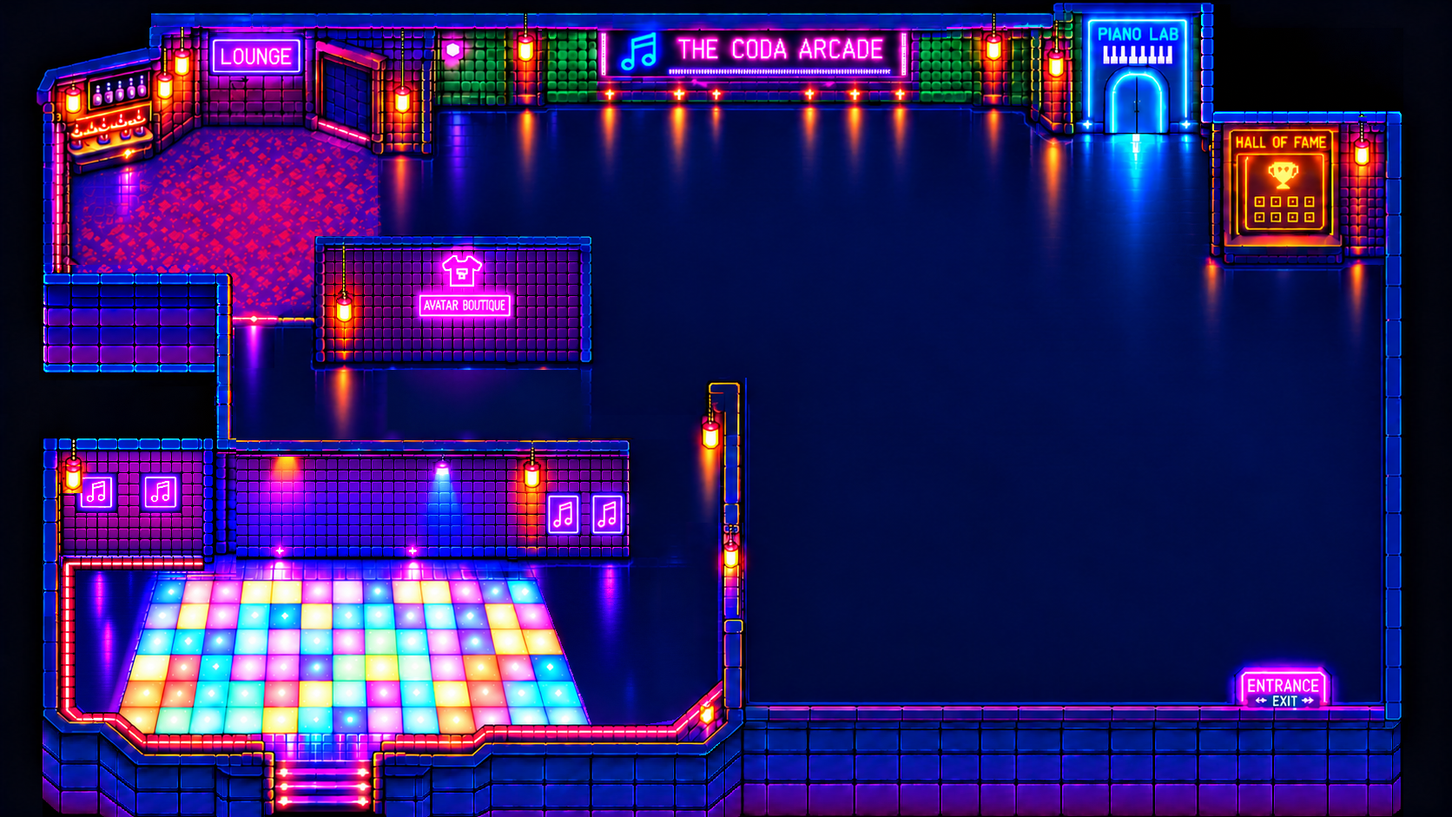
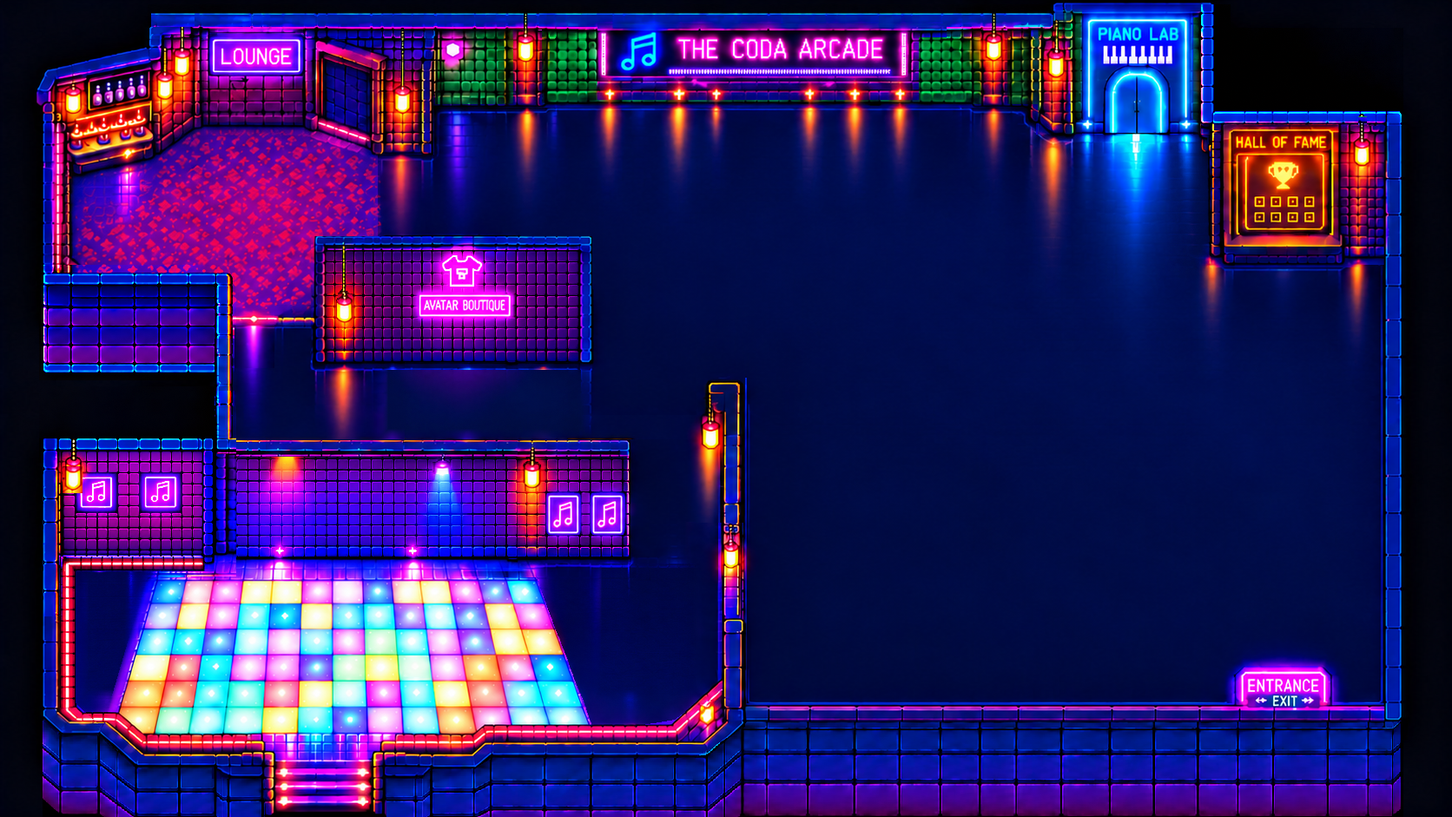
Remove remaining phantom dance-room floor reflections

Changed region(s): [[0.4043, 0.678, 0.4354, 0.8629], [0.0622, 0.678, 0.0933, 0.8629]]

diff --git a/world-preview.html b/world-preview.html
@@ -28,7 +28,7 @@
 #assetStudio{position:fixed;left:12px;top:80px;z-index:65;width:min(334px,calc(100vw - 24px));max-height:calc(100dvh - 99px);overflow:auto;background:#171529f5;border:1px solid #eac17d;box-shadow:0 12px 50px #05010de0,0 0 22px #fdac4a24;border-radius:12px;padding:13px;color:#f8efff;font:12px system-ui;backdrop-filter:blur(9px)}
 #assetStudio[hidden]{display:none}#assetStudio .studioHead{display:flex;align-items:center;justify-content:space-between;color:#ffe4a4;font-size:14px;gap:9px;margin-bottom:7px}#assetStudio .studioActions{display:flex;flex-wrap:wrap;gap:5px;margin:7px 0}#assetStudio button{font:inherit;min-height:28px;padding:5px 7px}#assetStudio .studioActions button{flex:1 0 90px}#assetStudio button:disabled{opacity:.36;cursor:not-allowed}#assetStudio hr{border:0;border-top:1px solid #655374;margin:13px 0}#assetStudio .studioField{display:grid;gap:3px;margin:7px 0}#assetStudio .studioField>label{font-weight:650;color:#dccdf3}#assetStudio input:not([type=checkbox]),#assetStudio select{background:#131024;border:1px solid #866e9b;color:#fff;padding:7px;border-radius:5px;width:100%;font:inherit;min-width:0}#assetStudio input[type=checkbox]{accent-color:#f9c880}#assetStudio .studioGrid{display:grid;grid-template-columns:1fr 1fr;gap:8px}#assetStudio .studioTip{color:#c9b9d6;line-height:1.45;font-size:11px;margin:6px 0}#assetStudio #assetList{height:108px;padding:2px}#assetStudio #assetList option{padding:6px}#assetStudio #assetMessage{color:#bbf5e5;min-height:18px;overflow-wrap:anywhere}#assetStudio #assetSelection[hidden]{display:none}#assetStudio .studioCheck{display:inline-flex;align-items:center;gap:6px;margin:5px 11px 5px 0}#assetStudio .studioCollapsible{border:1px solid #655374;border-radius:7px;padding:8px}#assetStudio summary{cursor:pointer;color:#ffe4b1;font-weight:650}#assetToggle{border-color:#eecc7c}#view.asset-editing{cursor:crosshair;touch-action:none}#assetStudio #assetAdd{background:#675022;border-color:#e8b85c}#assetStudio #assetImport{border-color:#80d3ed}#assetStudio #assetExport{border-color:#80d3ed}#assetStudio #assetHelp{background:#271d3c}#assetStudio .studioHot{color:#ffcfa4}body.asset-console-open #layerEditor{display:none!important}@media(max-width:650px){#assetStudio{top:120px;max-height:calc(100dvh - 138px)}}
 /* DJ unlocks */ #panel .jukebox-track-locked{background:#79788612;border-radius:8px;padding:8px}#panel .jukebox-track-locked strong,#panel .jukebox-track-locked small{color:#a6a6b8}#panel .jukebox-track-locked [data-dj-requirement]{color:#e9d29e}
-</style><link rel="stylesheet" href="mobile-controls.css?v=controls-81"><link rel="stylesheet" href="world-mobile.css?v=dialogue-1"><script src="mobile-controls.js?v=joystick-41"></script><script src="finger-follow.js?v=student-29"></script><link rel="stylesheet" href="reward-notifications.css?v=music-30"><script src="reward-notifications.js?v=music-30"></script><link rel="stylesheet" href="developer-console.css?v=rugs-flip-20261031-1"><link rel="stylesheet" href="musician-ui.css?v=dialogue-1"><link rel="stylesheet" href="boutique-ui.css?v=avatar-50"><script src="collision-editor.js?v=mobile-28"></script><script src="world-object-catalog.js?v=floor-61"></script><script src="arcade-exit.js?v=exit-title-20261031-1"></script><script src="fishing-entrance.js?v=fishing-31"></script><script src="world-object-runtime.js?v=rugs-flip-20261031-1"></script><script src="world-lighting.js?v=roof-caps-20261031-1"></script><script src="dj-floodlights.js?v=stage-lights-20261031-1"></script><script src="dance-floor.js?v=aligned-dance-20261031-1"></script><script src="floor-stars.js?v=glass-stars-20261031-1"></script><script src="dance-rhythm-engine.js?v=play-97"></script><script src="dance-floor-stage.js?v=dance-95"></script><script src="dj-library.js?v=dj-96"></script><link rel="stylesheet" href="dialogue-editor.css?v=music-30"><script src="dialogue-editor.js?v=music-30"></script><link rel="stylesheet" href="pixel-editor.css?v=pixels-103"><script src="pixel-selection.js?v=smooth-mask-1"></script><script src="layer-selection.js?v=layer-selection-20261030-1"></script><script src="pixel-editor.js?v=smooth-mask-1"></script><script src="world-floor-grid.js?v=flat-75"></script><link rel="stylesheet" href="education-editor.css?v=author-101"><link rel="stylesheet" href="education-visual-editor.css?v=author-101"><script src="education-visual-editor.js?v=author-101"></script><script src="education-editor.js?v=author-101"></script><link rel="stylesheet" href="music-history-editor.css?v=facts-20261029-1"><script src="music-history-editor.js?v=facts-20261029-1"></script><script src="main-counter-palette.js?v=emerald-20261031-1"></script><script src="foreground-floor-compat.js?v=wall-uniform-20261031-1"></script><script src="environment-art.js?v=source-reflections-20261031-1"></script><script src="world-character-editor.js?v=selected-order-20261030-1"></script><link rel="stylesheet" href="decor-library.css?v=decor-20261030-1"><script src="decor-library.js?v=south-furniture-20261031-1"></script><script src="floor-palette-compat.js?v=glass-fringe-20261031-1"></script><script src="pathway-floor-fill.js?v=boutique-pathway-20261031-1"></script><script src="nightclub-wash.js?v=dance-floor-blend-20261101-1"></script><script src="wall-reflections.js?v=NWfinish20261031-1"></script><script src="developer-console.js?v=reflected-walls-20261031-1"></script><script src="npc-visitors.js?v=visitors-42"></script><script src="npc-behavior.js?v=composers-2"></script><script src="pet-companion.js?v=premium-42"></script><script src="character-renderer.js?v=scholar-1"></script><link rel="stylesheet" href="artwork-editor.css?v=selection-edit-20261030-1"><script src="artwork-editor.js?v=feather-20261030-1"></script><script src="character-artwork-adapter.js?v=pixels-64"></script><script src="world-artwork-tools.js?v=glass-fringe-20261031-1"></script><script src="world-layer-renderer.js?v=rugs-flip-20261031-1"></script><link rel="stylesheet" href="musician-trivia.css?v=music-30"><script src="musician-trivia.js?v=music-30"></script><script src="musician-ui.js?v=dialogue-1"></script><script src="boutique-ui.js?v=classroom-54"></script><link rel="stylesheet" href="notes-shop.css?v=avatar-50"><link rel="stylesheet" href="music-notation.css?v=fishing-31"><script src="music-notation.js?v=fishing-31"></script><link rel="stylesheet" href="education-notation.css?v=education-90"><script src="education-notation.js?v=lessons-93"></script><script src="piano-wall-notation.js?v=learning-48"></script><link rel="stylesheet" href="room-developer-editor.css?v=pixels-64"><script src="room-developer-editor.js?v=rugs-flip-20261031-1"></script><link rel="stylesheet" href="rhythm-fishing.css?v=fishing-mobile-20261101-1"><script src="fishing-water-regions.js?v=fishing-balance-20261101-1"></script><script src="fishing-water.js?v=fishing-balance-20261101-1"></script><script src="fishing-cave-layout.js?v=fishing-balance-20261101-1"></script><script src="fishing-biomes.js?v=fishing-balance-20261101-1"></script><script src="rhythm-fishing-engine.js?v=fishing-balance-20261101-1"></script><script src="fishing-progress.js?v=fishing-31"></script><script src="fishing-cave-effects.js?v=fishing-snes-20261031-1"></script><script src="fish-shadow-motion.js?v=cave-32"></script><script src="rhythm-beaming.js?v=fishing-34"></script><link rel="stylesheet" href="dance-rhythm-game.css?v=play-97"><script src="dance-rhythm-game.js?v=play-97"></script><script src="dance-floor-world.js?v=play-97"></script><link rel="stylesheet" href="cave-camera.css?v=mobile-36"><script src="cave-camera.js?v=mobile-36"></script><link rel="stylesheet" href="fishing-battle.css?v=fishing-34"><script src="fishing-battle.js?v=mobile-36"></script><script src="fishing-music.js?v=music-42"></script><script src="fishing-boat.js?v=fishing-snes-20261031-1"></script><script src="fishing-rhythm-input.js?v=controls-37"></script><link rel="stylesheet" href="fishing-practice.css?v=controls-37"><script src="fishing-practice.js?v=controls-37"></script><script src="rhythm-fishing.js?v=dock-exit-20261031-1"></script><link rel="stylesheet" href="piano-lab.css?v=dialogue-1"><link rel="stylesheet" href="music-classroom.css?v=learning-48"><script src="notes-shop.js?v=profiles-87"></script><script src="room-fullscreen.js?v=learning-48"></script><script src="piano-melodies.js?v=learning-48"></script><script src="piano-lab.js?v=dialogue-1"></script><link rel="stylesheet" href="classroom-tutorials.css?v=lessons-93"><link rel="stylesheet" href="time-signature-lesson.css?v=lessons-51"><script src="time-signature-lesson.js?v=education-90"></script><link rel="stylesheet" href="classroom-quiz.css?v=learning-48"><script src="classroom-keyboard.js?v=author-101"></script><script src="classroom-quiz-pool.js?v=classroom-97"></script><script src="classroom-quiz.js?v=author-101"></script><script src="final-exam-bank.js?v=exam-86"></script><script src="classroom-curriculum-staff.js?v=keyboard-99"></script><script src="classroom-curriculum-rhythm.js?v=lessons-93"></script><script src="classroom-curriculum-expression.js?v=keyboard-99"></script><script src="classroom-exam-curriculum.js?v=keyboard-99"></script><link rel="stylesheet" href="classroom-exam-study.css?v=lessons-102"><script src="classroom-exam-study.js?v=author-101"></script><script src="classroom-accidentals-lesson.js?v=keyboard-99"></script><script src="classroom-tutorials.js?v=author-101"></script><link rel="stylesheet" href="final-exam.css?v=lessons-93"><script src="classroom-understanding-basics.js?v=classroom-97"></script><script src="classroom-understanding-staff.js?v=classroom-97"></script><script src="classroom-learning-paths-data.js?v=author-101"></script><script src="education-content.js?v=lessons-102"></script><link rel="stylesheet" href="classroom-learning-paths.css?v=lessons-93"><script src="classroom-learning-paths.js?v=author-101"></script><script src="final-exam.js?v=author-101"></script><script src="music-classroom.js?v=dialogue-1"></script><link rel="stylesheet" href="player-progression.css?v=mobile-28"><link rel="stylesheet" href="hall-of-fame.css?v=achievements-89"><link rel="stylesheet" href="arcade-vibes.css?v=vibes-82"><script src="arcade-vibes.js?v=vibes-84"></script><script src="player-progression.js?v=dj-96"></script><script src="achievement-catalog.js?v=dj-96"></script><link rel="stylesheet" href="player-profile.css?v=student-29"><script src="player-profile.js?v=quests-82"></script><script src="hall-of-fame.js?v=achievements-89"></script><script src="musician-missions.js?v=quests-82"></script><script src="song-machine/sound-library.js?v=mobile-28"></script><link rel="stylesheet" href="play-notebook.css?v=play-97"><script src="changelog-data.js?v=console-fullscreen-20261029-1"></script><script src="play-notebook.js?v=play-97"></script><header><b>♫ CODA ARCADE · CONNECTED WORLD / WORLD BUILDER</b><span><a href="classic-arcade.html">← Original arcade</a> &nbsp; <button id="levelBtn" type="button" aria-label="Your profile">Profile · Level 1</button> <button id="hallFameBtn" type="button">Hall of Fame</button> <button id="notesBtn" type="button" aria-label="Open Notes shop">♫ 150 Notes</button> <button id="pianoLabBtn" type="button">Piano Lab</button> <button id="classroomBtn" type="button">Classroom</button> <button id="fishingBtn" type="button">Rhythm Fishing</button> <button id="accountBtn">◉ Guest</button> <button id="jukeboxBtn">♫ Jukebox</button> <button id="assetToggle" type="button" title="Open Asset Studio (Shift+A)">✥ Assets</button> <button id="editorToggle" type="button" title="Edit pixel foreground layers (Shift+L)">✎ Layers</button> <button id="musicBtn" type="button" aria-pressed="false" title="Play or stop optional original arcade groove">♫ Music: Off</button> <button id="fxBtn" type="button" title="Choose full, lite or off visual effects">✧ FX: Full</button> <span id="cameraTools" role="group" aria-label="Camera zoom controls"><button type="button" id="zoomOut" title="Zoom out (−)" aria-label="Zoom out">−</button><button type="button" id="zoomReset" title="Reset camera zoom (0)" aria-label="Reset zoom to 100%">100%</button><button type="button" id="zoomIn" title="Zoom in (+)" aria-label="Zoom in">+</button></span> <button id="fs">⛶ Fullscreen</button></span></header><main id="worldStage" aria-label="Arcade world"><canvas id="view" width="1672" height="941" tabindex="0" aria-label="Connected arcade. Move with WASD or arrow keys. Press Space to jump and E to interact."></canvas></main><footer><span>WASD / arrows · Walk · Space · Jump · Wheel / + / − Zoom · 0 Reset · F2 Developer console · C Edit collision · Shift+L Edit layers · Right-drag to pan in editor &nbsp; E · Interact &nbsp; Q · Emote · P · Play notes · Click to walk · Touch and drag to steer</span><span id="status">Phase 11 · asset studio · animations · layers · C collision · L layers</span></footer><aside id="layerEditor" hidden aria-label="Foreground layer painting editor">
+</style><link rel="stylesheet" href="mobile-controls.css?v=controls-81"><link rel="stylesheet" href="world-mobile.css?v=dialogue-1"><script src="mobile-controls.js?v=joystick-41"></script><script src="finger-follow.js?v=student-29"></script><link rel="stylesheet" href="reward-notifications.css?v=music-30"><script src="reward-notifications.js?v=music-30"></script><link rel="stylesheet" href="developer-console.css?v=rugs-flip-20261031-1"><link rel="stylesheet" href="musician-ui.css?v=dialogue-1"><link rel="stylesheet" href="boutique-ui.css?v=avatar-50"><script src="collision-editor.js?v=mobile-28"></script><script src="world-object-catalog.js?v=floor-61"></script><script src="arcade-exit.js?v=exit-title-20261031-1"></script><script src="fishing-entrance.js?v=fishing-31"></script><script src="world-object-runtime.js?v=rugs-flip-20261031-1"></script><script src="world-lighting.js?v=roof-caps-20261031-1"></script><script src="dj-floodlights.js?v=stage-lights-20261031-1"></script><script src="dance-floor.js?v=aligned-dance-20261031-1"></script><script src="floor-stars.js?v=glass-stars-20261031-1"></script><script src="dance-rhythm-engine.js?v=play-97"></script><script src="dance-floor-stage.js?v=dance-95"></script><script src="dj-library.js?v=dj-96"></script><link rel="stylesheet" href="dialogue-editor.css?v=music-30"><script src="dialogue-editor.js?v=music-30"></script><link rel="stylesheet" href="pixel-editor.css?v=pixels-103"><script src="pixel-selection.js?v=smooth-mask-1"></script><script src="layer-selection.js?v=layer-selection-20261030-1"></script><script src="pixel-editor.js?v=smooth-mask-1"></script><script src="world-floor-grid.js?v=flat-75"></script><link rel="stylesheet" href="education-editor.css?v=author-101"><link rel="stylesheet" href="education-visual-editor.css?v=author-101"><script src="education-visual-editor.js?v=author-101"></script><script src="education-editor.js?v=author-101"></script><link rel="stylesheet" href="music-history-editor.css?v=facts-20261029-1"><script src="music-history-editor.js?v=facts-20261029-1"></script><script src="main-counter-palette.js?v=emerald-20261031-1"></script><script src="foreground-floor-compat.js?v=wall-uniform-20261031-1"></script><script src="environment-art.js?v=phantom-reflections-20261101-1"></script><script src="world-character-editor.js?v=selected-order-20261030-1"></script><link rel="stylesheet" href="decor-library.css?v=decor-20261030-1"><script src="decor-library.js?v=south-furniture-20261031-1"></script><script src="floor-palette-compat.js?v=glass-fringe-20261031-1"></script><script src="pathway-floor-fill.js?v=boutique-pathway-20261031-1"></script><script src="nightclub-wash.js?v=dance-floor-blend-20261101-1"></script><script src="wall-reflections.js?v=NWfinish20261031-1"></script><script src="developer-console.js?v=reflected-walls-20261031-1"></script><script src="npc-visitors.js?v=visitors-42"></script><script src="npc-behavior.js?v=composers-2"></script><script src="pet-companion.js?v=premium-42"></script><script src="character-renderer.js?v=scholar-1"></script><link rel="stylesheet" href="artwork-editor.css?v=selection-edit-20261030-1"><script src="artwork-editor.js?v=feather-20261030-1"></script><script src="character-artwork-adapter.js?v=pixels-64"></script><script src="world-artwork-tools.js?v=glass-fringe-20261031-1"></script><script src="world-layer-renderer.js?v=rugs-flip-20261031-1"></script><link rel="stylesheet" href="musician-trivia.css?v=music-30"><script src="musician-trivia.js?v=music-30"></script><script src="musician-ui.js?v=dialogue-1"></script><script src="boutique-ui.js?v=classroom-54"></script><link rel="stylesheet" href="notes-shop.css?v=avatar-50"><link rel="stylesheet" href="music-notation.css?v=fishing-31"><script src="music-notation.js?v=fishing-31"></script><link rel="stylesheet" href="education-notation.css?v=education-90"><script src="education-notation.js?v=lessons-93"></script><script src="piano-wall-notation.js?v=learning-48"></script><link rel="stylesheet" href="room-developer-editor.css?v=pixels-64"><script src="room-developer-editor.js?v=rugs-flip-20261031-1"></script><link rel="stylesheet" href="rhythm-fishing.css?v=fishing-mobile-20261101-1"><script src="fishing-water-regions.js?v=fishing-balance-20261101-1"></script><script src="fishing-water.js?v=fishing-balance-20261101-1"></script><script src="fishing-cave-layout.js?v=fishing-balance-20261101-1"></script><script src="fishing-biomes.js?v=fishing-balance-20261101-1"></script><script src="rhythm-fishing-engine.js?v=fishing-balance-20261101-1"></script><script src="fishing-progress.js?v=fishing-31"></script><script src="fishing-cave-effects.js?v=fishing-snes-20261031-1"></script><script src="fish-shadow-motion.js?v=cave-32"></script><script src="rhythm-beaming.js?v=fishing-34"></script><link rel="stylesheet" href="dance-rhythm-game.css?v=play-97"><script src="dance-rhythm-game.js?v=play-97"></script><script src="dance-floor-world.js?v=play-97"></script><link rel="stylesheet" href="cave-camera.css?v=mobile-36"><script src="cave-camera.js?v=mobile-36"></script><link rel="stylesheet" href="fishing-battle.css?v=fishing-34"><script src="fishing-battle.js?v=mobile-36"></script><script src="fishing-music.js?v=music-42"></script><script src="fishing-boat.js?v=fishing-snes-20261031-1"></script><script src="fishing-rhythm-input.js?v=controls-37"></script><link rel="stylesheet" href="fishing-practice.css?v=controls-37"><script src="fishing-practice.js?v=controls-37"></script><script src="rhythm-fishing.js?v=dock-exit-20261031-1"></script><link rel="stylesheet" href="piano-lab.css?v=dialogue-1"><link rel="stylesheet" href="music-classroom.css?v=learning-48"><script src="notes-shop.js?v=profiles-87"></script><script src="room-fullscreen.js?v=learning-48"></script><script src="piano-melodies.js?v=learning-48"></script><script src="piano-lab.js?v=dialogue-1"></script><link rel="stylesheet" href="classroom-tutorials.css?v=lessons-93"><link rel="stylesheet" href="time-signature-lesson.css?v=lessons-51"><script src="time-signature-lesson.js?v=education-90"></script><link rel="stylesheet" href="classroom-quiz.css?v=learning-48"><script src="classroom-keyboard.js?v=author-101"></script><script src="classroom-quiz-pool.js?v=classroom-97"></script><script src="classroom-quiz.js?v=author-101"></script><script src="final-exam-bank.js?v=exam-86"></script><script src="classroom-curriculum-staff.js?v=keyboard-99"></script><script src="classroom-curriculum-rhythm.js?v=lessons-93"></script><script src="classroom-curriculum-expression.js?v=keyboard-99"></script><script src="classroom-exam-curriculum.js?v=keyboard-99"></script><link rel="stylesheet" href="classroom-exam-study.css?v=lessons-102"><script src="classroom-exam-study.js?v=author-101"></script><script src="classroom-accidentals-lesson.js?v=keyboard-99"></script><script src="classroom-tutorials.js?v=author-101"></script><link rel="stylesheet" href="final-exam.css?v=lessons-93"><script src="classroom-understanding-basics.js?v=classroom-97"></script><script src="classroom-understanding-staff.js?v=classroom-97"></script><script src="classroom-learning-paths-data.js?v=author-101"></script><script src="education-content.js?v=lessons-102"></script><link rel="stylesheet" href="classroom-learning-paths.css?v=lessons-93"><script src="classroom-learning-paths.js?v=author-101"></script><script src="final-exam.js?v=author-101"></script><script src="music-classroom.js?v=dialogue-1"></script><link rel="stylesheet" href="player-progression.css?v=mobile-28"><link rel="stylesheet" href="hall-of-fame.css?v=achievements-89"><link rel="stylesheet" href="arcade-vibes.css?v=vibes-82"><script src="arcade-vibes.js?v=vibes-84"></script><script src="player-progression.js?v=dj-96"></script><script src="achievement-catalog.js?v=dj-96"></script><link rel="stylesheet" href="player-profile.css?v=student-29"><script src="player-profile.js?v=quests-82"></script><script src="hall-of-fame.js?v=achievements-89"></script><script src="musician-missions.js?v=quests-82"></script><script src="song-machine/sound-library.js?v=mobile-28"></script><link rel="stylesheet" href="play-notebook.css?v=play-97"><script src="changelog-data.js?v=console-fullscreen-20261029-1"></script><script src="play-notebook.js?v=play-97"></script><header><b>♫ CODA ARCADE · CONNECTED WORLD / WORLD BUILDER</b><span><a href="classic-arcade.html">← Original arcade</a> &nbsp; <button id="levelBtn" type="button" aria-label="Your profile">Profile · Level 1</button> <button id="hallFameBtn" type="button">Hall of Fame</button> <button id="notesBtn" type="button" aria-label="Open Notes shop">♫ 150 Notes</button> <button id="pianoLabBtn" type="button">Piano Lab</button> <button id="classroomBtn" type="button">Classroom</button> <button id="fishingBtn" type="button">Rhythm Fishing</button> <button id="accountBtn">◉ Guest</button> <button id="jukeboxBtn">♫ Jukebox</button> <button id="assetToggle" type="button" title="Open Asset Studio (Shift+A)">✥ Assets</button> <button id="editorToggle" type="button" title="Edit pixel foreground layers (Shift+L)">✎ Layers</button> <button id="musicBtn" type="button" aria-pressed="false" title="Play or stop optional original arcade groove">♫ Music: Off</button> <button id="fxBtn" type="button" title="Choose full, lite or off visual effects">✧ FX: Full</button> <span id="cameraTools" role="group" aria-label="Camera zoom controls"><button type="button" id="zoomOut" title="Zoom out (−)" aria-label="Zoom out">−</button><button type="button" id="zoomReset" title="Reset camera zoom (0)" aria-label="Reset zoom to 100%">100%</button><button type="button" id="zoomIn" title="Zoom in (+)" aria-label="Zoom in">+</button></span> <button id="fs">⛶ Fullscreen</button></span></header><main id="worldStage" aria-label="Arcade world"><canvas id="view" width="1672" height="941" tabindex="0" aria-label="Connected arcade. Move with WASD or arrow keys. Press Space to jump and E to interact."></canvas></main><footer><span>WASD / arrows · Walk · Space · Jump · Wheel / + / − Zoom · 0 Reset · F2 Developer console · C Edit collision · Shift+L Edit layers · Right-drag to pan in editor &nbsp; E · Interact &nbsp; Q · Emote · P · Play notes · Click to walk · Touch and drag to steer</span><span id="status">Phase 11 · asset studio · animations · layers · C collision · L layers</span></footer><aside id="layerEditor" hidden aria-label="Foreground layer painting editor">
   <div class="editorbanner"><b>✎ FOREGROUND EDITOR</b><button id="editClose" type="button">✕</button></div>
   <div class="mini">Paint with pixels from the existing arcade artwork. Erase removes unwanted foreground coverage; the floor stays unchanged.</div>
   <div class="editorline"><button type="button" id="editPaint" class="current">🖌 Paint</button><button type="button" id="editErase">⌫ Erase</button></div>
@@ -2597,7 +2597,7 @@ developerConsole=window.createCodaDeveloperConsole({historyProgress:()=>musicHis
  W,H,c,studio:assetStudio,layer:layerState,getForegroundMask:()=>assetForegroundComposite(),getPaintPaths:()=>layerState.patches.map(patch=>patch.path),parts:foregroundParts,catalog:window.CodaWorldObjectCatalog,worldArt,foregroundArt,floorArt,
  getReflectionQuality:()=>fxMode,
  publishedProjectUrl:'published-world-project.json?v=export-9-20261031-1',
- paletteCompatUrl:'assets/environment/floor-palette-compat.json?v=source-reflections-20261031-1',
+ paletteCompatUrl:'assets/environment/floor-palette-compat.json?v=phantom-reflections-20261101-1',
  pathwayFloorFillUrl:'assets/environment/boutique-pathway-shape.json?v=boutique-pathway-20261031-1',
  cell:COLLISION_CELL,gridWidth:GRID_W,gridHeight:GRID_H,navGrid,baseGrid:defaultNavGrid,
  legacyCollision:[...edits].filter(([i,v])=>Number.isInteger(i)&&i>=0&&i<navGrid.length&&(v===0||v===1)),

diff --git a/index.html b/index.html
@@ -12,7 +12,7 @@
   <script src="classroom-profile-data.js?v=history-1"></script>
   <script src="classroom-storage.js?v=guest-100"></script>
   <script src="classroom-service.js?v=session-94"></script>
-  <script src="title-screen.js?v=source-links-20261031-1" defer></script>
+  <script src="title-screen.js?v=floor-cleanup-20261101-1" defer></script>
 </head>
 <body>
   <div class="arcade-scene" aria-hidden="true"></div>
@@ -35,11 +35,11 @@
       <p id="titleGreeting" class="start-greeting">Your adventure starts here.</p>
       <p id="titleSessionStatus" class="title-session-status" role="status" aria-live="polite">Checking sign-in…</p>
       <nav class="start-actions" aria-label="Start playing">
-        <a id="titleProfile" class="start-button profile-button" href="world-preview.html?v=source-links-20261031-1&amp;profile=student"><span class="button-icon" aria-hidden="true">▣</span><span><strong>Open my profile</strong><small>Use your picture card</small></span><b aria-hidden="true">→</b></a>
-        <a id="titleGuest" class="start-button guest-button is-primary" href="world-preview.html?v=source-links-20261031-1&amp;guest=1"><span class="button-icon" aria-hidden="true">▶</span><span><strong>Play as guest</strong><small>Jump in and explore</small></span><b aria-hidden="true">→</b></a>
+        <a id="titleProfile" class="start-button profile-button" href="world-preview.html?v=floor-cleanup-20261101-1&amp;profile=student"><span class="button-icon" aria-hidden="true">▣</span><span><strong>Open my profile</strong><small>Use your picture card</small></span><b aria-hidden="true">→</b></a>
+        <a id="titleGuest" class="start-button guest-button is-primary" href="world-preview.html?v=floor-cleanup-20261101-1&amp;guest=1"><span class="button-icon" aria-hidden="true">▶</span><span><strong>Play as guest</strong><small>Jump in and explore</small></span><b aria-hidden="true">→</b></a>
       </nav>
       <p id="titleProfileHint" class="start-hint" role="status">Your teacher can help with a profile card.</p>
-      <a id="titleTeacher" class="teacher-link" href="world-preview.html?v=source-links-20261031-1&amp;profile=admin"><span aria-hidden="true">♧</span> For teachers <span aria-hidden="true">↗</span></a>
+      <a id="titleTeacher" class="teacher-link" href="world-preview.html?v=floor-cleanup-20261101-1&amp;profile=admin"><span aria-hidden="true">♧</span> For teachers <span aria-hidden="true">↗</span></a>
       <div class="panel-bottomline" aria-hidden="true"><span>NO COINS.</span><span>JUST CURIOSITY.</span></div>
     </section>
   </main>

diff --git a/classic-arcade.html b/classic-arcade.html
@@ -32,7 +32,7 @@
     <div><p class="eyebrow">TUNE IN. POWER UP. PLAY ON.</p><h1>Welcome to<br><em>The Coda Arcade.</em></h1></div>
     <p class="welcome">Neon nights. Pixel beats. Musical adventures.<br>Pick a cabinet. Find your frequency.</p>
   </div>
-  <a id="connectedWorldLink" class="connected-world-launch" href="world-preview.html?v=source-links-20261031-1"><span>Explore the connected world</span><small>Piano Lab · Music classroom · Notes shop · Missions</small><b aria-hidden="true">→</b></a>
+  <a id="connectedWorldLink" class="connected-world-launch" href="world-preview.html?v=floor-cleanup-20261101-1"><span>Explore the connected world</span><small>Piano Lab · Music classroom · Notes shop · Missions</small><b aria-hidden="true">→</b></a>
   <section class="arcade" aria-label="Original arcade floor">
     <div class="roomtop"><span><i></i> FREE PLAY · 4 CABINETS</span><span id="roomlabel">THE ARCADE / FLOOR 01</span></div>
     <canvas id="room" width="1000" height="800" tabindex="0" aria-label="Walkable music arcade. Use arrow keys or WASD to walk, E to play, Space to jump. On phones, use the joystick and action buttons, or hold the floor and slide to steer. Lift to stop."></canvas>

diff --git a/title-screen.js b/title-screen.js
@@ -2,7 +2,7 @@
 (function(win){
  'use strict';
  const doc=win.document,$=id=>doc.getElementById(id),config=win.ARCADE_ACCOUNTS_CONFIG||{};
- const world=new URL('world-preview.html?v=source-links-20261031-1',win.location.href),guestWorld=new URL(world);guestWorld.searchParams.set('guest','1');
+ const world=new URL('world-preview.html?v=floor-cleanup-20261101-1',win.location.href),guestWorld=new URL(world);guestWorld.searchParams.set('guest','1');
  const incoming=win.CodaClassroom?.consumeFragment(win.location,win.history);
  if(incoming!==null&&incoming!==undefined){world.hash=new URLSearchParams({'classroom-pass':incoming}).toString();win.location.replace(world.href);return;}
  let scope=null,storage=null;

diff --git a/environment-art.js b/environment-art.js
@@ -78,7 +78,7 @@
      finish();
     }catch(error){finish(Error('Environment artwork could not decode: '+file+'. '+(error.message||'')));}
    }
-   image.addEventListener('load',onload);image.addEventListener('error',onerror);image.src=baseUrl+file+(file===BACKGROUND?'?v=source-reflections-20261031-1':file==='main-counter.png'?'?v=north-walls-20261031-1':'');
+   image.addEventListener('load',onload);image.addEventListener('error',onerror);image.src=baseUrl+file+(file===BACKGROUND?'?v=phantom-reflections-20261101-1':file==='main-counter.png'?'?v=north-walls-20261031-1':'');
    if(image.complete&&image.naturalWidth)onload();
   }));
   const ready=Promise.all(tasks).then(()=>{loaded=true;});

diff --git a/tests/reflection-sources-browser.py b/tests/reflection-sources-browser.py
@@ -14,12 +14,13 @@ _spec = importlib.util.spec_from_file_location(
 _fixture = importlib.util.module_from_spec(_spec)
 _spec.loader.exec_module(_fixture)
[1 lines of base64/hex data omitted]
-REPAIR_BOUNDS = [[435, 426, 246, 80], [750, 649, 57, 157]]
+FINISH_BOUNDS = [[94, 659, 57, 147], [685, 649, 122, 157]]
+REPAIR_BOUNDS = [[435, 426, 246, 80], [750, 649, 57, 157]] + FINISH_BOUNDS
 # Captured with the pre-update native backdrop and its prior-good palette
 # manifest, with only REPAIR_BOUNDS blanked. This immutable witness includes
 # earlier wall removals and floor repairs; rebuilding compatibility must not
 # resurrect their purple/red pigments elsewhere in the room.
[2 lines of base64/hex data omitted]
 
 
 class ReflectionSourceTests(unittest.TestCase):
@@ -121,8 +122,56 @@ class ReflectionSourceTests(unittest.TestCase):
  return {sha256:[...new Uint8Array(hash)].map(value=>value.toString(16).padStart(2,'0')).join(''),witnesses};
 }''', REPAIR_BOUNDS)
         self.assertEqual(result['sha256'], PRIOR_GOOD_BASE_OUTSIDE_REPAIRS_SHA256,
-                         'Keep every prior floor repair outside the two approved rectangles; witnesses: '
+                         'Keep every prior floor repair outside the approved rectangles; witnesses: '
                          + json.dumps(result['witnesses']))
+        self.assertEqual(self.project(), self.published)
+
+    def test_finishing_pass_changes_only_its_two_reviewed_glass_masks(self):
+        self.load()
+        result = self.page.evaluate('''async bounds=>{
+ const pixels=async url=>{const image=new Image();image.src=url;await image.decode();
+  const c=document.createElement('canvas');c.width=1672;c.height=941;c.getContext('2d').drawImage(image,0,0);
+  return c.getContext('2d').getImageData(0,0,1672,941).data;};
+ const before=await pixels('assets/environment/source/dance-reflections-before-cleanup.png');
+ const after=await pixels('assets/environment/v1/empty-arcade.png');let changed=0,outside=0;
+ for(let y=0;y<941;y++)for(let x=0;x<1672;x++){
+  const at=(y*1672+x)*4;if(![0,1,2,3].some(c=>before[at+c]!==after[at+c]))continue;changed++;
+  if(!bounds.some(([l,t,w,h])=>x>=l&&x<l+w&&y>=t&&y<t+h)||!CodaWallReflections.isGlassFloor(x+.5,y+.5))outside++;
+ }
+ return {changed,outside};
+}''', FINISH_BOUNDS)
+        self.assertGreater(result['changed'], 1000)
+        self.assertEqual(result['outside'], 0, 'The new pass must preserve every earlier edit outside its exact glass masks')
+
+    def test_reported_streaks_are_gone_with_effects_off_and_browser_fetches_fresh_art(self):
+        self.load()
+        self.quality('off')
+        result = self.page.evaluate('''async()=>{
+ const before=new Image();before.src='assets/environment/source/reflections-before-alignment.png';await before.decode();
+ const old=document.createElement('canvas');old.width=1672;old.height=941;old.getContext('2d').drawImage(before,0,0);
+ const current=document.createElement('canvas');current.width=1672;current.height=941;__danceBlendConsole.renderBase(current.getContext('2d'));
+ const points=[[113,680],[113,700],[123,750],[703,680],[703,720],[775,680]];
+ const sample=(c,x,y)=>[...c.getContext('2d').getImageData(x,y,1,1).data];
+ return {points:points.map(([x,y])=>({x,y,before:sample(old,x,y),after:sample(current,x,y)})),
+  resources:performance.getEntriesByType('resource').map(entry=>entry.name)};
+}''')
+        for point in result['points']:
+            self.assertLess(point['after'][0], 55, 'Remove the bright baked pigment: ' + json.dumps(point))
+            self.assertLess(point['after'][1], 70, point)
+            self.assertLess(point['after'][2], 190, point)
+        for resource in ['environment-art.js', 'assets/environment/v1/empty-arcade.png',
+                         'assets/environment/floor-palette-compat.json']:
+            requests = [url for url in result['resources'] if resource + '?' in url]
+            self.assertEqual(len(requests), 1, requests)
+            self.assertIn('v=phantom-reflections-20261101-1', requests[0],
+                          'Return visits must fetch the new art rather than the former orange-streak cache key')
+        self.quality('full')
+        full = self.page.evaluate('''()=>{
+ const c=document.createElement('canvas');c.width=1672;c.height=941;const g=c.getContext('2d');__danceBlendConsole.renderBase(g);
+ return [[113,700],[123,750],[703,680],[775,680]].map(([x,y])=>({x,y,rgba:[...g.getImageData(x,y,1,1).data]}));
+}''')
+        for point in full:
+            self.assertLess(point['rgba'][0], 70, 'Keep the wall reflection soft rather than restoring a saturated stripe: ' + json.dumps(point))
         self.assertEqual(self.project(), self.published)
 
     def test_known_old_floor_pigments_are_render_only_and_custom_paint_keeps_priority(self):
@@ -163,6 +212,8 @@ class ReflectionSourceTests(unittest.TestCase):
         painted = local['artwork']['background.world']
         _fixture.paint_pixel(painted, 540, 475, '#17c379ff')
         _fixture.paint_pixel(painted, 775, 740, '#a342c6ff')
+        _fixture.paint_pixel(painted, 113, 700, '#38a964ff')
+        _fixture.paint_pixel(painted, 703, 680, '#c57a28ff')
         _fixture.paint_pixel(painted, 1100, 650, '#cf7a22ff')
         stored = self.seed(local)
         for _ in range(2):
@@ -172,9 +223,10 @@ class ReflectionSourceTests(unittest.TestCase):
             self.assertEqual(self.storage_record(), stored)
             colors = self.page.evaluate('''()=>{
  const c=document.createElement('canvas');c.width=1672;c.height=941;const g=c.getContext('2d');__danceBlendConsole.renderBase(g);
- return [[540,475],[775,740],[1100,650]].map(([x,y])=>[...g.getImageData(x,y,1,1).data]);
+ return [[540,475],[775,740],[113,700],[703,680],[1100,650]].map(([x,y])=>[...g.getImageData(x,y,1,1).data]);
 }''')
-            self.assertEqual(colors, [[23, 195, 121, 255], [163, 66, 198, 255], [207, 122, 34, 255]],
+            self.assertEqual(colors, [[23, 195, 121, 255], [163, 66, 198, 255], [56, 169, 100, 255],
+                                      [197, 122, 40, 255], [207, 122, 34, 255]],
                              'Intentional saved colors remain above the cleaned native floor')
             self.page.reload(wait_until='domcontentloaded')
             self.page.wait_for_function('CodaDeveloperConsole.ready()&&CodaArcadeQA.characters().spriteState.ready')

diff --git a/tests/dance-floor-blend-browser.py b/tests/dance-floor-blend-browser.py
@@ -45,6 +45,7 @@ class DanceFloorBlendTests(unittest.TestCase):
         _fixture.PublishedWorldTests.setUp(self)
         self.meta = json.loads((ROOT / 'scripts/dance-floor-blend-regions.json').read_text())
         self.reflections = json.loads((ROOT / 'scripts/reflection-floor-regions.json').read_text())
+        self.dance_reflections = json.loads((ROOT / 'scripts/dance-reflection-floor-regions.json').read_text())
         script = (ROOT / 'developer-console.js').read_text() + '''
 (() => { const original = window.createCodaDeveloperConsole;
 window.createCodaDeveloperConsole = api => {
@@ -91,7 +92,7 @@ window.createCodaDeveloperConsole = api => {
                          PUBLISHED_SHA256, 'The uploaded world project must remain byte-for-byte intact')
         self.load()
         self.assertEqual(self.project(), self.published)
-        result = self.page.evaluate('''async ({meta,reflections}) => {
+        result = self.page.evaluate('''async ({meta,reflections,danceReflections}) => {
  const load = async url => { const image = new Image(); image.src = url; await image.decode(); return image; };
  const before = await load(meta.before), after = await load(meta.output);
  const make = image => { const c = document.createElement('canvas'); c.width = image.naturalWidth;
@@ -117,7 +118,7 @@ window.createCodaDeveloperConsole = api => {
   // Subsequent approved cleanup removes orphaned reflections from the same
   // native backdrop. Its compositor clips these exact bounds to the shared
   // glass geometry; neither pass owns architecture outside that union.
-  const reflectionAllowed = glass && reflections.passes.some(pass => {
+  const reflectionAllowed = glass && [...reflections.passes,...danceReflections.passes].some(pass => {
    const [left,top,width,height] = pass.repairBounds;
    return x >= left && x < left + width && y >= top && y < top + height;
   });
@@ -132,7 +133,7 @@ window.createCodaDeveloperConsole = api => {
    || (x >= 119 && x < 808 && y >= 837 && y < 884)) protectedChanges++;
  }
  return {beforeSize: [a.width, a.height], afterSize: [b.width, b.height], changed, danceChanged, reflectionChanged, outside, protectedChanges};
-}''', {'meta': self.meta, 'reflections': self.reflections})
+}''', {'meta': self.meta, 'reflections': self.reflections, 'danceReflections': self.dance_reflections})
         self.assertEqual(result['beforeSize'], [1672, 941])
         self.assertEqual(result['afterSize'], [1672, 941])
         self.assertGreater(result['danceChanged'], 1000, 'The reviewed dance-room floor must still receive the blended texture')
